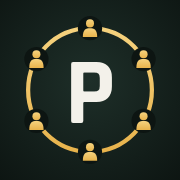
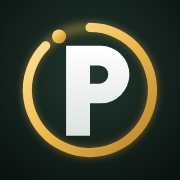
Neues App-Symbol: Glow-Ring (Goldring mit Ball, modernes P), Original gesichert (#195)
Claude-Session: https://claude.ai/code/session_01YWtuio87xWAtUKo25uyPNV

Changed region(s): [[0.1111, 0.0833, 0.8889, 0.9167]]

diff --git a/public/marke/LIESMICH.md b/public/marke/LIESMICH.md
@@ -1,0 +1,10 @@
+# PoolTipp – App-Symbol (Original)
+
+Gewählt von Rene am 10.10.2026: **Variante A „Glow-Ring“** – Goldring mit Lücke und Ball, kantiges weißes P auf dunkelgrünem Verlauf.
+
+- `pooltipp-symbol.svg` – Original (Vektor, beliebig groß, daraus werden alle Größen erzeugt)
+- `pooltipp-symbol-maskable.svg` – gleiche Grafik auf 80 % verkleinert (Android schneidet Symbole rund zu)
+- `pooltipp-symbol-1024.png` – große Bilddatei (z. B. für Social Media, App-Stores, Präsentationen)
+
+Daraus erzeugt: `app/icon.png` (512), `app/apple-icon.png` (180, iPhone), `public/icons/icon-192/512.png`, `public/icons/icon-maskable-192/512.png`.
+Farben: Hintergrund #21382F → #0A110E, Gold #FFE7A3 → #EDB94A → #B9822A, P weiß #FFFFFF → #DCE3DE.
